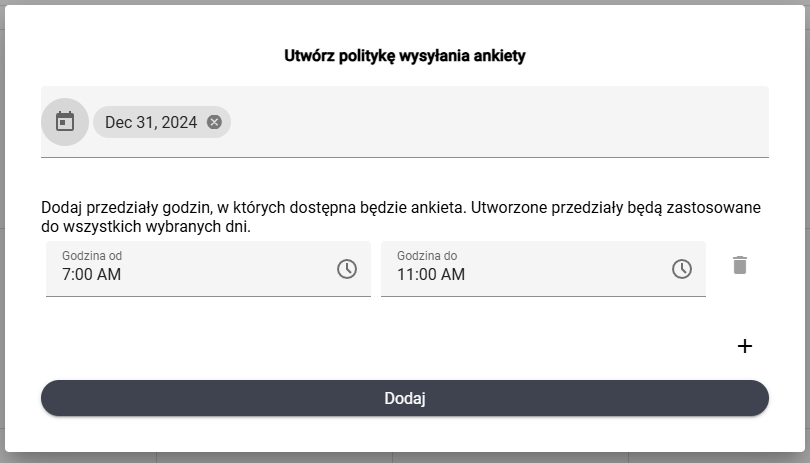
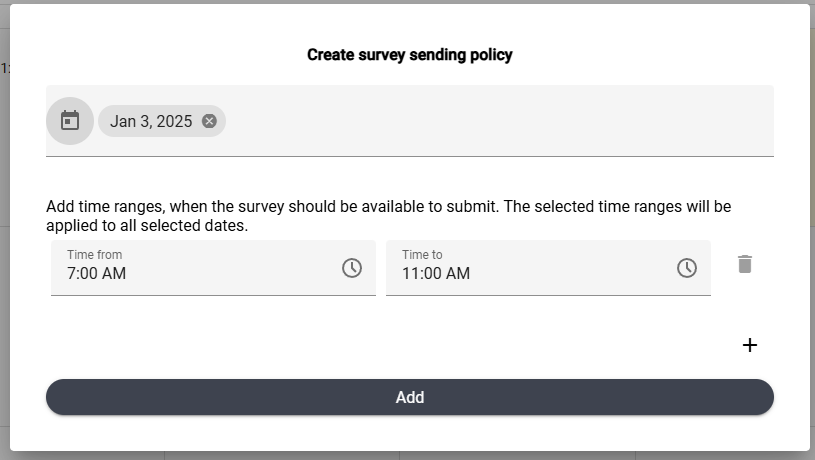
english surveys

diff --git a/docs/user_documentation/en/surveys/surveys.md b/docs/user_documentation/en/surveys/surveys.md
@@ -1,52 +1,51 @@
-# Ankiety
+# Surveys
 
-Aby przejść do modułu `Ankiety`, wybierz odpowiednią zakładkę w bocznym panelu po lewej stronie ekranu
+To access the `Surveys` module, select the appropriate tab in the sidebar on the left side of the screen.
 
 ![alt text](imgs/turn_on.png)
 
-Wyświetlona zostanie lista ankiet. Aby przejść do szczegółów wybranej ankiety, wciśnij `Szczegóły ankiety` na kafelku z wybraną ankietą.
+A list of surveys will be displayed. To view the details of a selected survey, click `Survey details` on the tile of the chosen survey.
 
-## Polityka wysyłania
+## Sending Policy
 
-W szczegółach ankiety znajduje się zakładka `Polityka wysyłania`. W tym widoku możesz zdefiniować dni i godziny, w których ankieta ma zostać wysłana do wypełnienia.
+In the survey details, there is a tab called `Sending policy`. In this view, you can define the days and times during which the survey should be sent out for completion.
 
-#### Dodawania polityki wysyłania
+#### Adding a Sending Policy
 
-Wciśnij przycisk `Dodaj politykę wysyłania`, aby zdefiniować nowe przedziały czasu, w których ankieta będzie dsotępna do wysłania.
+Press the `Add sending policy` button to define new time intervals during which the survey will be available for sending.
 
 ![alt text](imgs/sending_policy_btn.png)
 
 ![alt text](imgs/sending_policy_form.png)
 
+#### Removing a Sending Policy
 
-#### Usuwanie polityki wysyłania
-Aby usunąć przedziały czasu, włącz tryb usuwania wciskając przycisk `Edytuj polityki wysyłania`. Następnie zaznacz na kalendarzu przedziały czasu, które chcesz usunąć i wciśnij `Usuń`.
+To remove time intervals, enable delete mode by pressing the `Edit sending policies` button. Then select the time intervals on the calendar that you want to delete and press `Delete`.
 
 ![alt text](imgs/remove_sending_policy.png)
 
-Pojawi się okno dialogowe z prośbą o potwierdzenie
+A confirmation dialog box will appear.
 
-![alt text](imgs/remove_sending_poilcy_confirmation.png)
+![alt text](imgs/remove_sending_policy_confirmation.png)
 
-## Podgląd 
+## Preview
 
-W szczegółach zadania znajduje się zakładka `Podgląd`. Pozwala ona zarządzać stanem ankiety, edutować ją, oraz przeglądać.
+In the task details, there is a tab called `Preview`. This tab allows you to manage the survey's state, edit it, and view it.
 
-#### Stany ankiety
+#### Survey States
 
-Ankieta może znajdować się w jednym z dwóch stanów:
-- utworzona
-- opublikowana
+A survey can be in one of two states:
+- Created
+- Published
 
-Jeśli ankieta jest opublikowana, nie można już jej edytować ani usunąć. Stanem ankiety możesz zarządzać za pomocą przycisków:
+If the survey is published, it can no longer be edited or deleted. You can manage the survey's state using the buttons:
 
 ![alt text](imgs/manage_state.png)
 
-- Tryb edycji: umożliwia edycję ankiety (więcej szczegółów o edytorze ankiet znajdziesz w dokumencie poświęconym modułowi `Tworzenie ankiet`)
-- Opublikuj: wyświetla okno dialogowe z prośbą o potwierdzenie, po potwierdzeinu publikuje ankietę
-- Usuń: usuwa ankietę
+- Edit Mode: Allows you to edit the survey (for more details about the survey editor, refer to the document dedicated to the `Creating surveys` module).
+- Publish: Displays a confirmation dialog box. Upon confirmation, the survey is published.
+- Delete: Deletes the survey.
 
-#### UWAGA
+#### NOTE
 
-Jeśli ankieta jest już opublikowana, nie można jej usunąć. Wciąż możesz jednak ją wycofać, usuwając wszystkie polityki wysyłania dla tej ankiety. 
-
+If the survey is already published, it cannot be deleted. However, you can still withdraw it by removing all sending policies for that survey.
